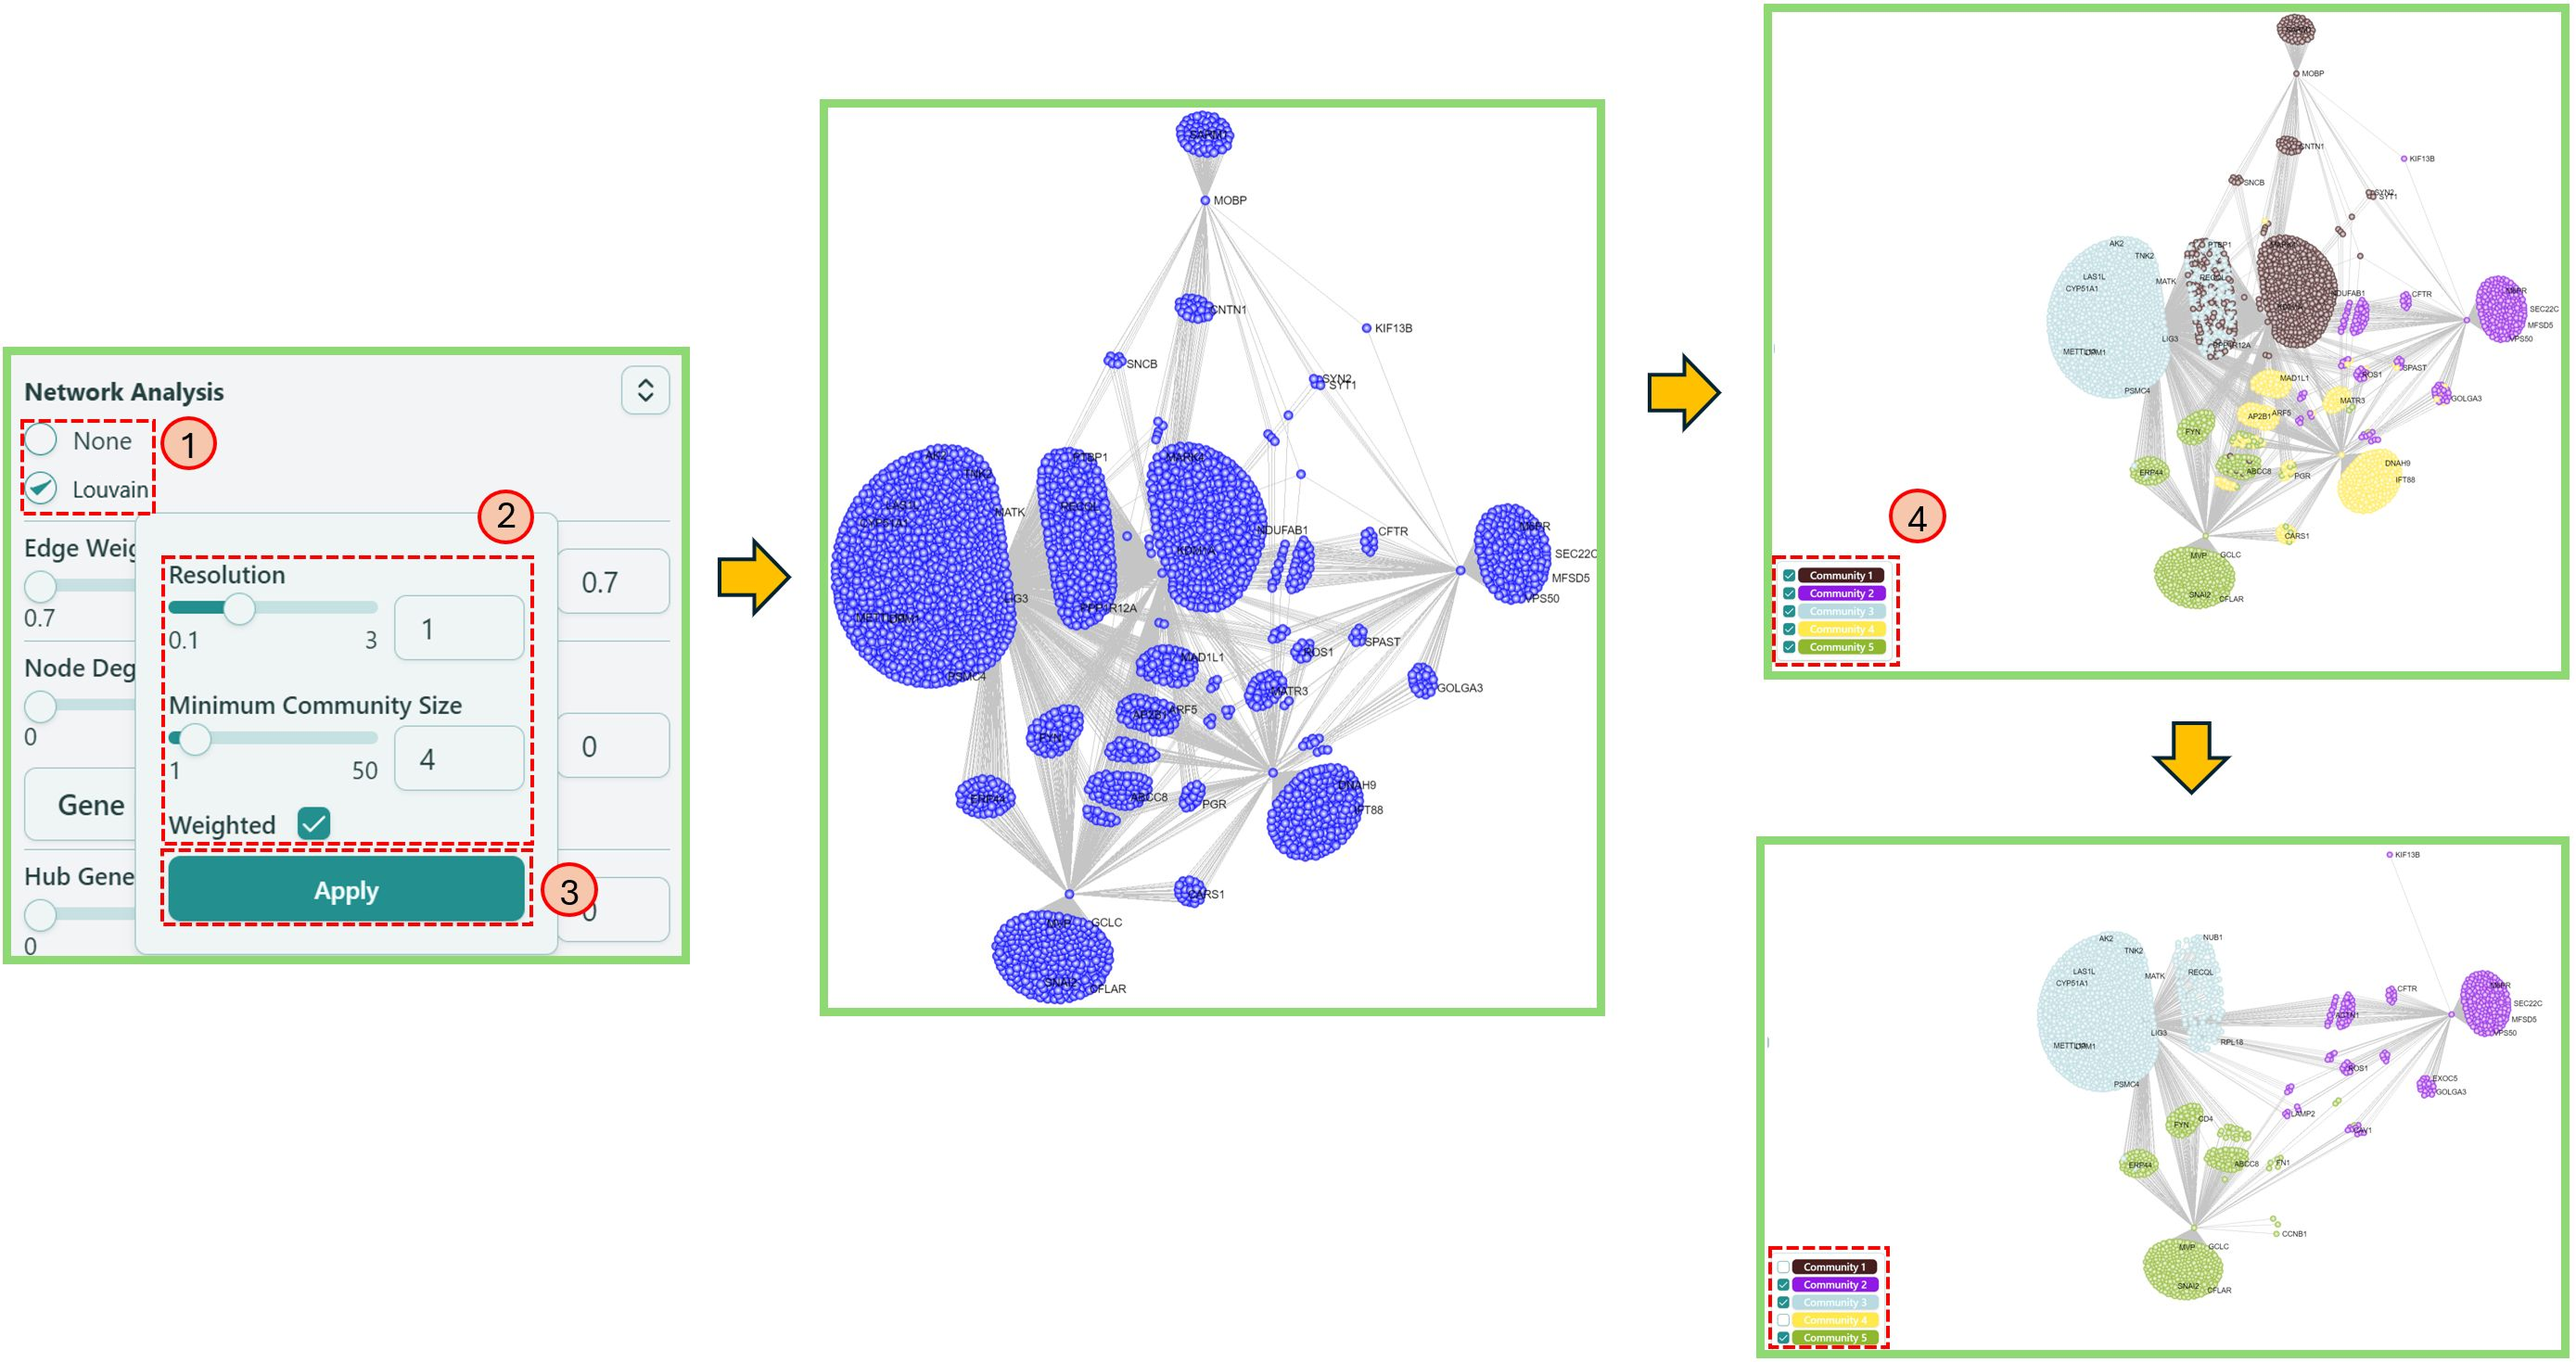
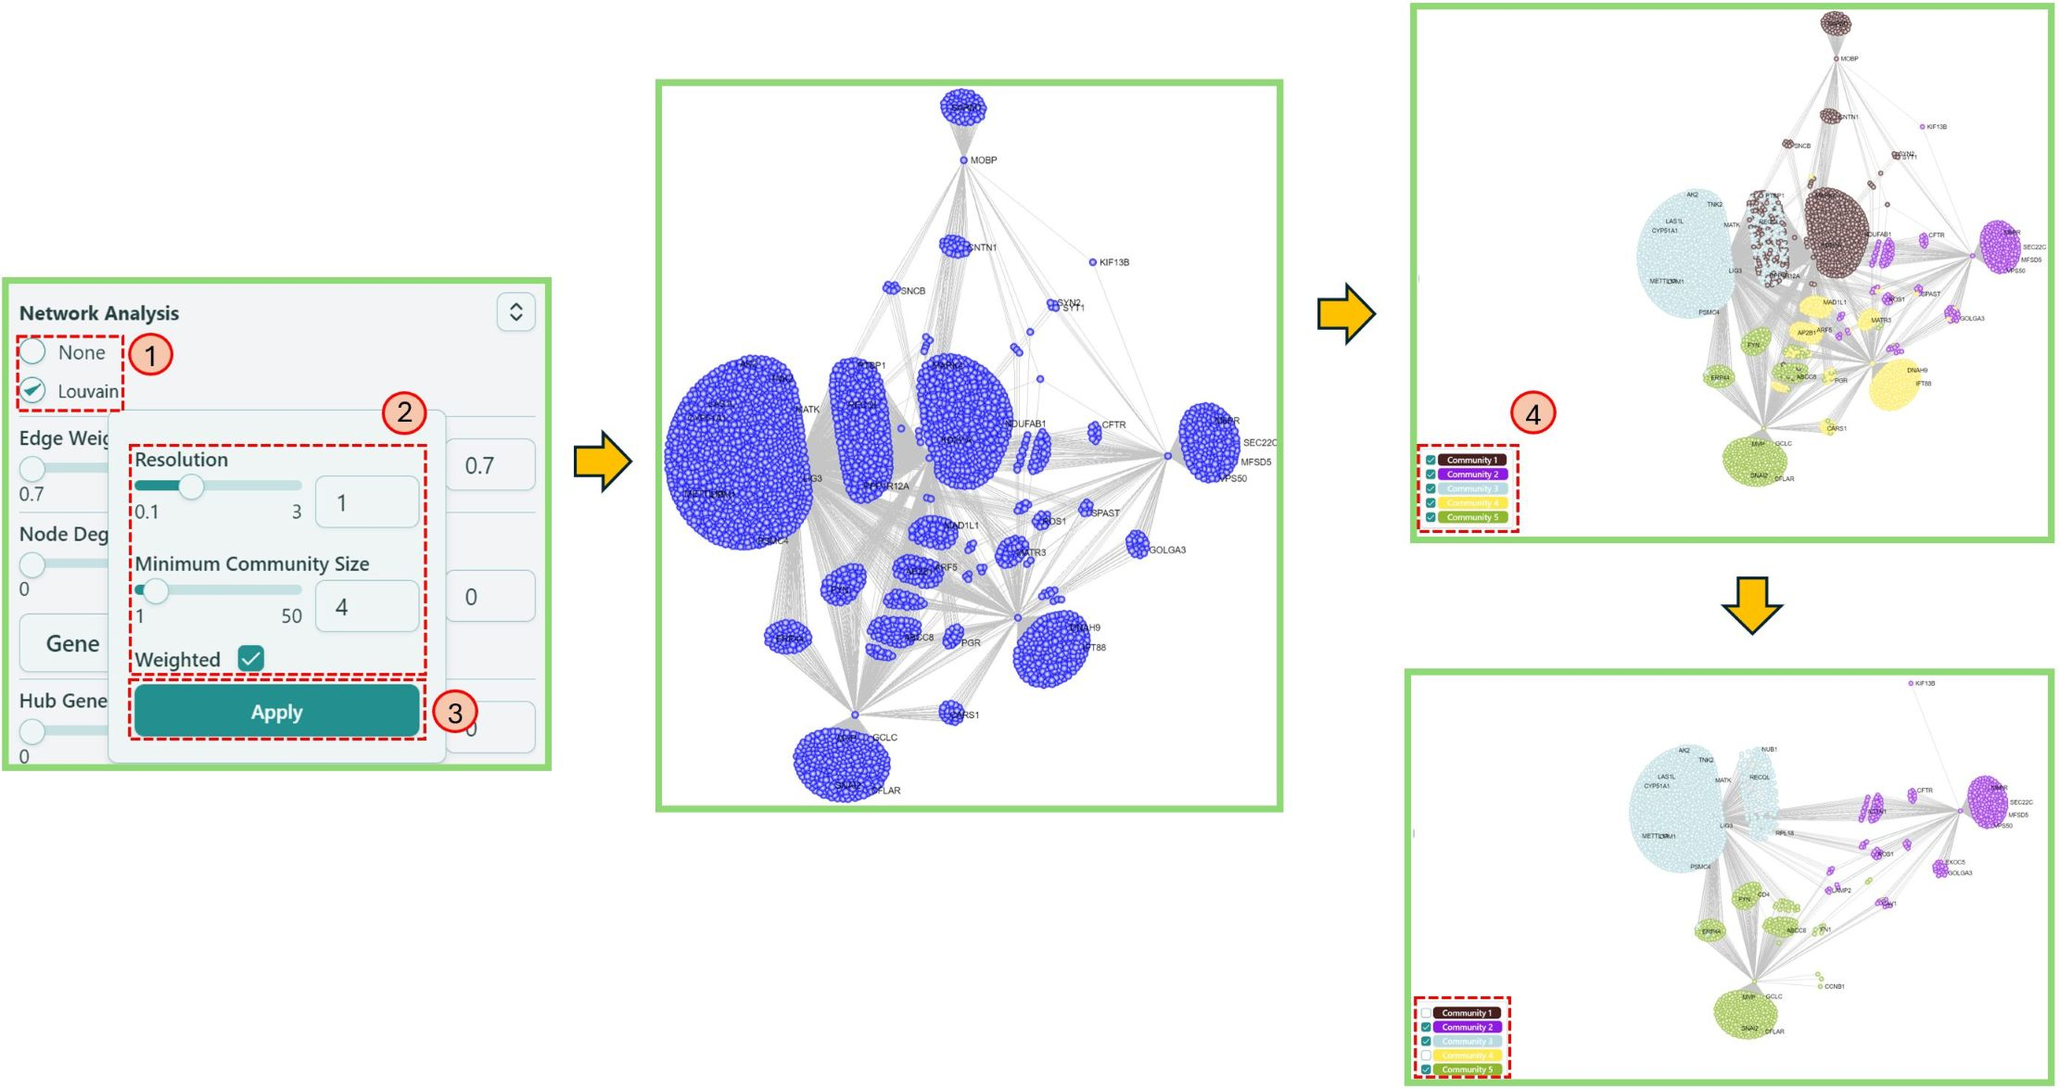
fix(Navbar): correct project name from "Target Biomarker Platform" to "Target Discovery Platform"; compressed images and remove unused navbar background

diff --git a/frontend/components/Navbar.tsx b/frontend/components/Navbar.tsx
@@ -10,7 +10,7 @@ export default function Navbar() {
         <Link href={"/"} className="flex items-center gap-2">
           <Image src={logo} alt="TDP logo" className="w-40" />
           <h1 className="text-lg md:text-4xl font-bold flex items-end flex-wrap">
-            Target Biomarker Platform (TDP)
+            Target Discovery Platform (TDP)
           </h1>
         </Link>
         <Link href={"/docs/CHANGELOG"} className="text-xs self-end">
